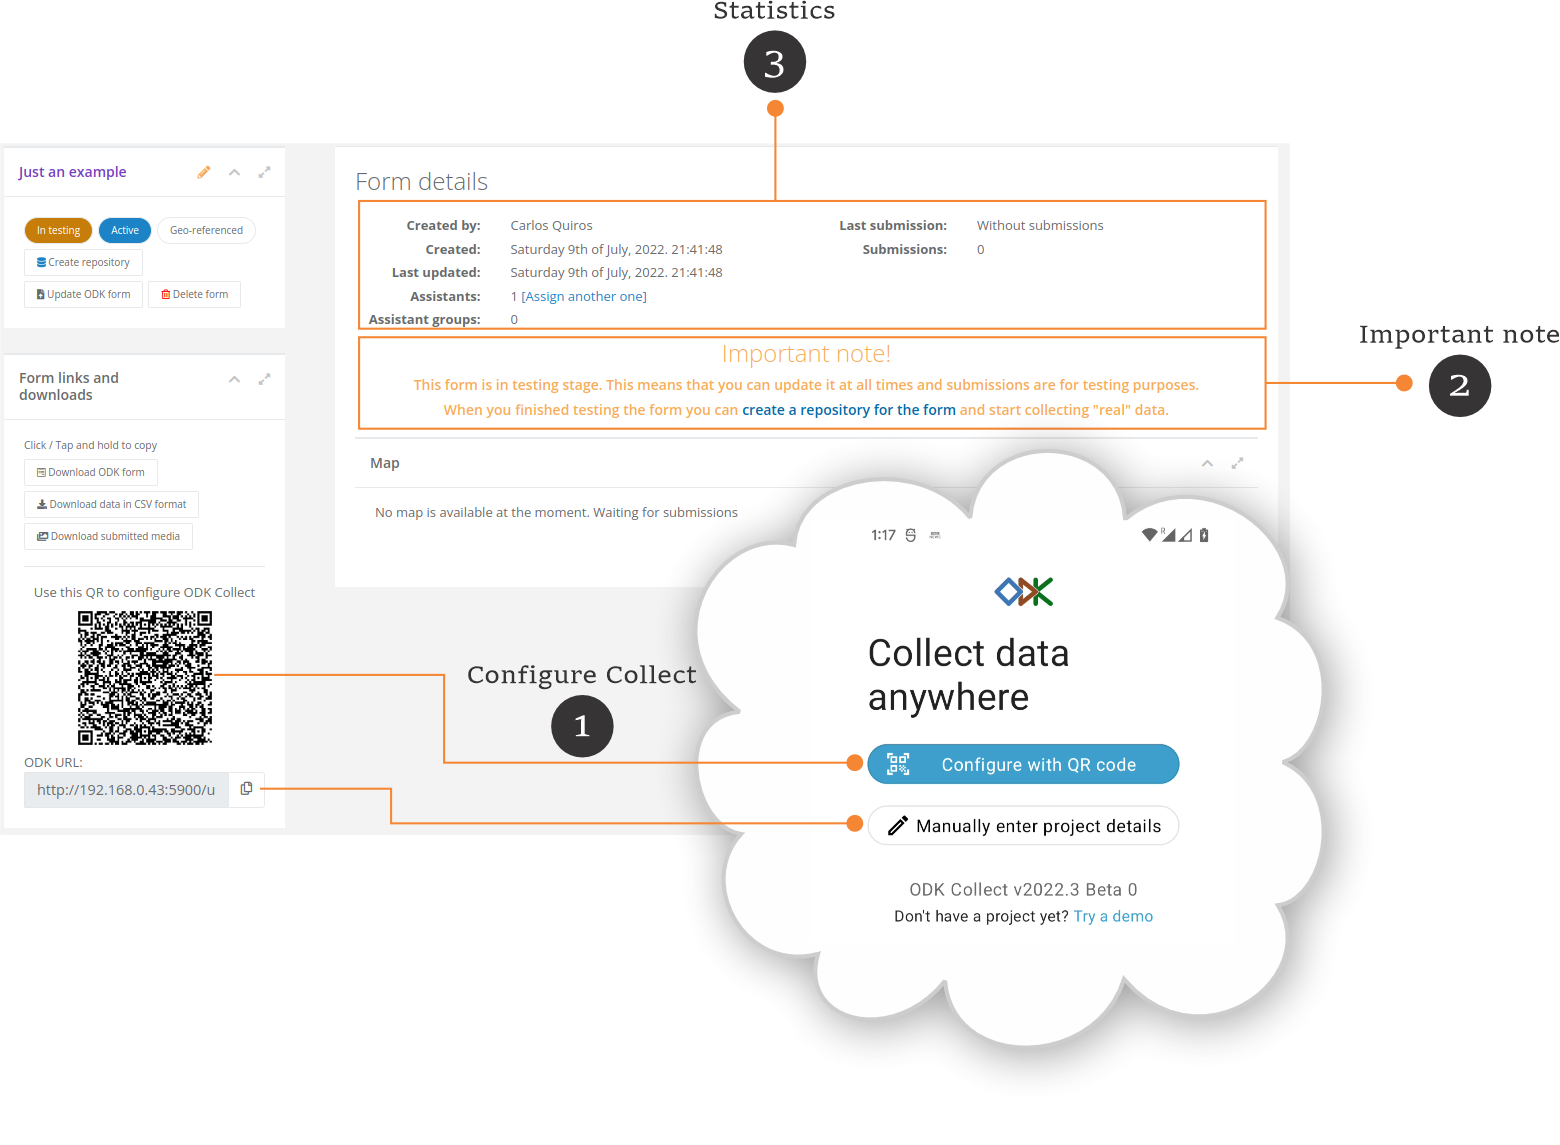
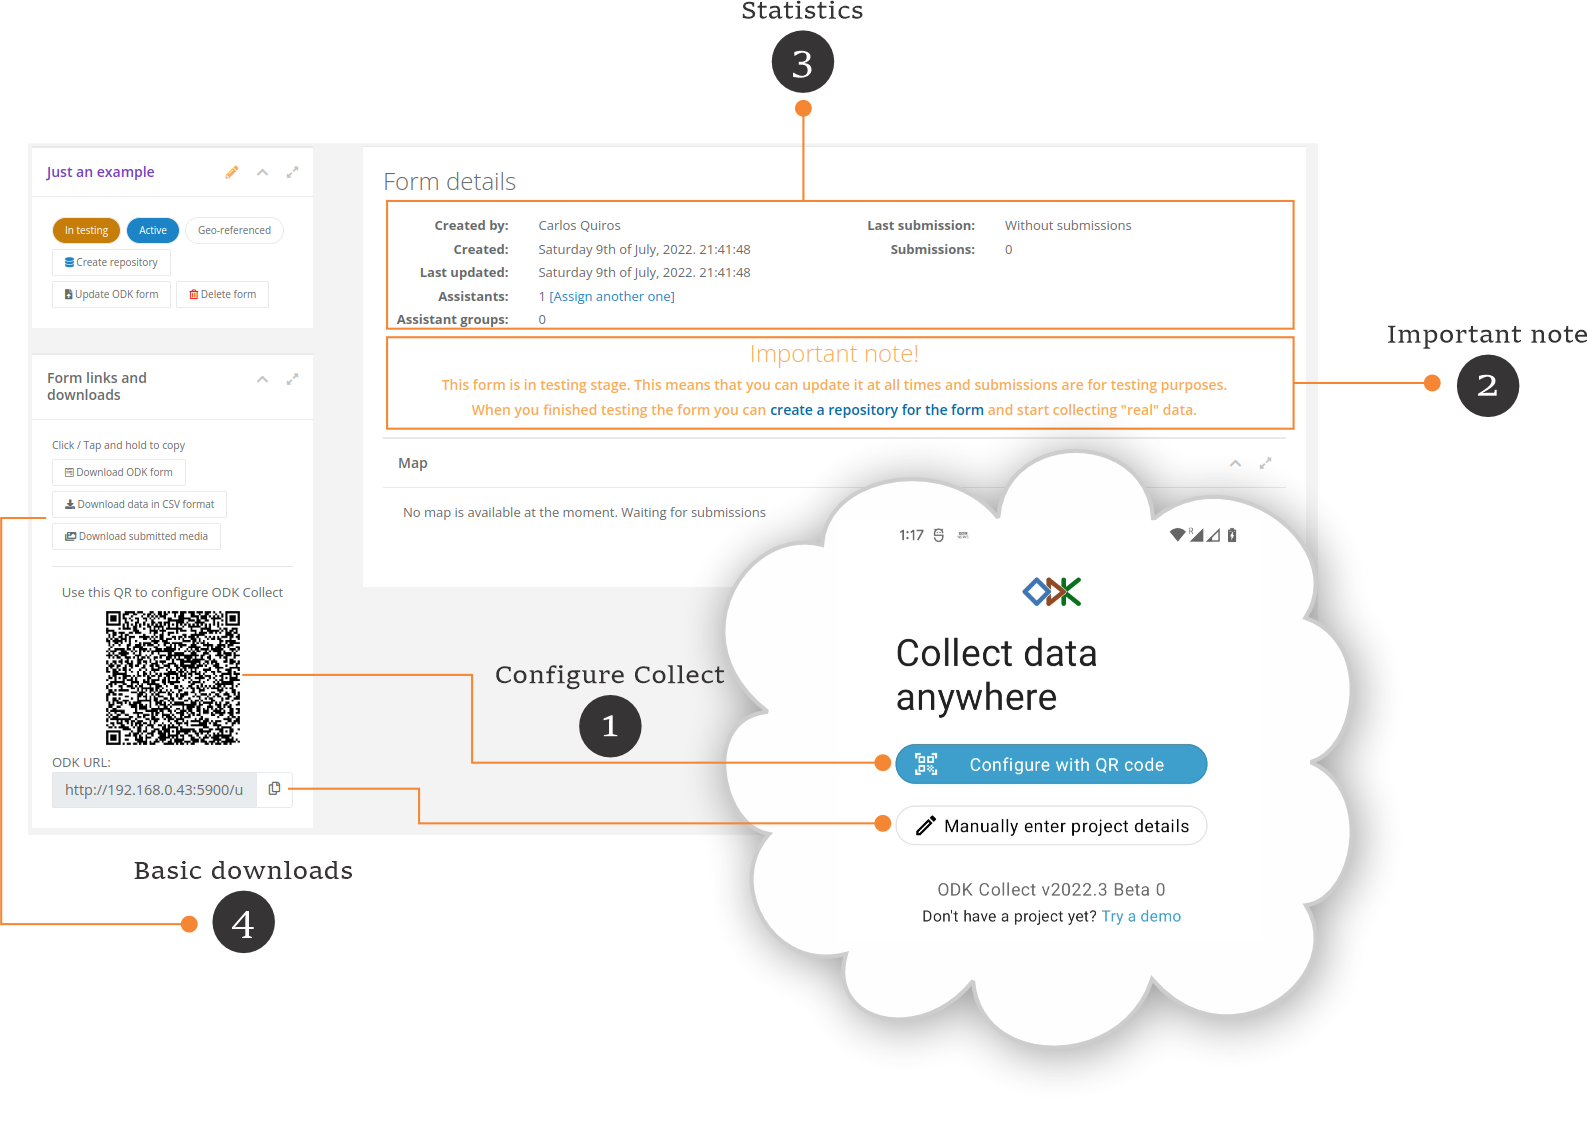
GitBook: [#17] More work in documentation. More sections

diff --git a/docs/guides/creating-your-first-task/advanced-permissions.md b/docs/guides/creating-your-first-task/advanced-permissions.md
@@ -1,5 +1,41 @@
-# Advanced permissions
+# Create a repository for your form
 
 {% hint style="info" %}
-**Good to know:** your product docs aren't just a reference of all your features! use them to encourage folks to perform certain actions and discover the value in your product.
+**FormShare stores submission data in a repository**. Details of this are covered in the section "[How does FormShare stores my data?](../../fundamentals/repositories/how-does-formshare-stores-my-data.md)".
 {% endhint %}
+
+For each ODK form that you upload into FormShare, the system creates a database to hold its submissions. This database is called a “repository”. At first, forms are uploaded in a “testing” stage (without a repository) but then you can create a repository for them to store “real” data. The reason for a testing stage is that it is easier to replace a form without a repository because FormShare does not need to alter the underlying database, however it is possible to [merge new versions of a form into a common repository](../../fundamentals/repositories/merging-subversions-of-a-form.md).
+
+<mark style="color:red;">**After you tested your form**</mark> you can generate a repository for it.
+
+![](../../.gitbook/assets/form\_test\_stage\_03\_captions.png)
+
+1. To create a repository for your form click either the button "Create repository" or the link "create a repository for the form". The repository creator will appear.
+
+![](../../.gitbook/assets/create\_repository\_captions.png)
+
+1. If you have testing data you can automatically import it into the repository (default) however, you can discard/delete all testing data.
+2. To create the repository click on the "Create repository" button.
+
+{% hint style="info" %}
+Note: If your form has multiple languages the repository creator will ask for more details. This is covered in the section "[Forms with multiple languages](../../fundamentals/repositories/forms-with-multiple-languages.md)".
+{% endhint %}
+
+FormShare will start generating your repository
+
+![](../../.gitbook/assets/generating\_repository.png)
+
+Afterward, the "Form details" page will appear with more options and utilities.
+
+![](../../.gitbook/assets/form\_details\_with\_repo\_captions.png)
+
+1. **With repository**: The form now appears with a repository.
+2. **In database**: Submissions are now stored in a database. You can start cleaning the data using the [Web Interface ](../../data-management/for-designers/figma-integration/the-web-interface.md)or through [API](../../data-management/for-designers/figma-integration/api-data-cleaning.md).
+3. **With error**:  Submissions that don't enter the database go to the [error log](../../data-management/for-designers/submissions-with-errors.md).
+4. **Log entries**: The process of cleaning submissions with errors generate traceability records in the [error log](../../data-management/for-designers/submissions-with-errors.md). You can review them at any time.
+5. **Merge new version**: It is normal to have new versions of a form even after substantial testing. A new version of a form will store the submissions in the same repository of its previous version. **This means that you WILL NOT have two different sets of data that then you would need to join**. This is covered in more detail in the section "[Merging subversions of a form](../../fundamentals/repositories/merging-subversions-of-a-form.md)".
+6. **Anonymize fields**: You can mark fields as sensitive across all tables. Fields marked as sensitive will not appear in [public products](../../data-management/data-products/private-vs-public-products.md).
+7. **Manage submissions**: This feature allows you to delete submissions or move a submission from the database into the log entries. This is covered in more detail in the section "[Working with submissions](../../data-management/for-designers/working-with-submissions.md)".
+8. **Import external data**: FormShare allows you to import data from FormShare 1.0 (JSON), ODK Central (XML), and third-party platforms in JSON format. This is covered in more detail in the section "[Import external data](../../fundamentals/submissions/import-external-data.md)"
+9. **The audit log**: FormShare logs any change in the data regardless of the method used (e.g., Web interface, API, etc). This is covered in more detail in the section "[The audit log](../../data-management/for-designers/figma-integration/the-audit-log.md)".
+10. **Export data**: Now that the form has a repository, it is possible to export the data in different formats like Excel, and JSON. This is covered in more detail in the section "[Data products](../../data-management/data-products/)".

diff --git a/docs/SUMMARY.md b/docs/SUMMARY.md
@@ -9,7 +9,7 @@
 * [Uploading your first ODK Form](guides/creating-your-first-task/README.md)
   * [Create and assign assistants](guides/creating-your-first-task/create-and-assign-assistants.md)
   * [Test your form](guides/creating-your-first-task/test-your-form.md)
-  * [Create a form repository](guides/creating-your-first-task/advanced-permissions.md)
+  * [Create a repository for your form](guides/creating-your-first-task/advanced-permissions.md)
 
 ## Fundamentals
 
@@ -21,14 +21,19 @@
 * [Assistants](fundamentals/tasks.md)
 * [Repositories](fundamentals/repositories/README.md)
   * [How does FormShare stores my data?](fundamentals/repositories/how-does-formshare-stores-my-data.md)
+  * [Forms with multiple languages](fundamentals/repositories/forms-with-multiple-languages.md)
   * [Merging subversions of a form](fundamentals/repositories/merging-subversions-of-a-form.md)
-* [Submissions](fundamentals/submissions.md)
+* [Submissions](fundamentals/submissions/README.md)
+  * [Import external data](fundamentals/submissions/import-external-data.md)
 * [Partners](fundamentals/partners.md)
 
 ## Data management
 
 * [Data curation](use-cases/for-designers/README.md)
-  * [Cleaning data in a repository](use-cases/for-designers/figma-integration.md)
+  * [Cleaning data in a repository](data-management/for-designers/figma-integration/README.md)
+    * [The web interface](data-management/for-designers/figma-integration/the-web-interface.md)
+    * [API Data cleaning](data-management/for-designers/figma-integration/api-data-cleaning.md)
+    * [The audit log](data-management/for-designers/figma-integration/the-audit-log.md)
   * [Submissions with errors](data-management/for-designers/submissions-with-errors.md)
   * [Working with submissions](data-management/for-designers/working-with-submissions.md)
 * [Longitudinal data collection](use-cases/for-engineers/README.md)
@@ -39,6 +44,7 @@
 * [The data dictionary](use-cases/for-support/README.md)
   * [Marking fields as sensitive](use-cases/for-support/intercom-integration.md)
 * [Data products](data-management/data-products/README.md)
+  * [Private vs public products](data-management/data-products/private-vs-public-products.md)
   * [Flat CSV (One CSV file)](data-management/data-products/flat-csv-one-csv-file.md)
 
 ## Extras

diff --git a/docs/guides/creating-your-first-task/test-your-form.md b/docs/guides/creating-your-first-task/test-your-form.md
@@ -23,10 +23,12 @@ Though FormShare checks for certain errors in your form it does not check:
 {% hint style="warning" %}
 **Remember**: <mark style="color:red;">**Submissions received to a form in the testing stage are considered test data**</mark>. This means that any <mark style="color:red;">**submissions will be discarded**</mark> every time that you upload a new version of the form.
 
-This behavior **is not the same** when your form has a repository. The section "[Working with submissions](../../data-management/for-designers/working-with-submissions.md)" discusses how to perform updates to a form with a repository.
+This behavior **is not the same** when your form has a repository. The section "[Merging subversions of a form](../../fundamentals/repositories/merging-subversions-of-a-form.md)" discusses how to perform updates to a form with a repository.
 {% endhint %}
 
-3\. Statistics: This section show statistics about your testing data. This information will change every time you receive new submissions. When you have submissions with GPS data your can explore each submission
+3\. Statistics: This section show statistics about your testing data. This information will change every time you receive new submissions. When you have submissions with GPS data you can explore each submission
+
+4\. Basic downloads: During the "testing stage" you can download the testing data in CSV format (Flat CSV / One file) and download any media submitted with the submissions. These are basic downloads. **More download formats will be available after you create a repository.**
 
 ![](../../.gitbook/assets/submission\_details\_captions.png)
 

diff --git a/docs/guides/creating-your-first-task/create-and-assign-assistants.md b/docs/guides/creating-your-first-task/create-and-assign-assistants.md
@@ -43,7 +43,7 @@ Remember: To control duplicate submissions, you need to select a variable from y
 
 * Download ODK form: This will download the ODK form in Excel format
 * Download data in CSV format: This is a "[Flat CSV file](../../data-management/data-products/flat-csv-one-csv-file.md)". FormShare does not [resolve option labels or multi-select fields](../../fundamentals/repositories/how-does-formshare-stores-my-data.md) for data in the testing stage.
-* Download submitted media: This is a Zip file containing any media submitted to the form. Media files will be separated by [submission ID](../../fundamentals/submissions.md).
+* Download submitted media: This is a Zip file containing any media submitted to the form. Media files will be separated by [submission ID](../../fundamentals/submissions/).
 
 7\. Form files: ODK forms can use supporting files when collecting data. These files can be data or media files. If your form uses data files, e.g., CSV files, FormShare will alert you if such files are missing. FormShare will finish checking your form once you attach all necessary data files.
 

diff --git a/docs/fundamentals/repositories/forms-with-multiple-languages.md b/docs/fundamentals/repositories/forms-with-multiple-languages.md
@@ -1,0 +1,2 @@
+# Forms with multiple languages
+

diff --git a/docs/data-management/data-products/private-vs-public-products.md b/docs/data-management/data-products/private-vs-public-products.md
@@ -1,0 +1,2 @@
+# Private vs public products
+

diff --git a/docs/fundamentals/submissions/import-external-data.md b/docs/fundamentals/submissions/import-external-data.md
@@ -1,0 +1,2 @@
+# Import external data
+

diff --git a/docs/data-management/for-designers/figma-integration/api-data-cleaning.md b/docs/data-management/for-designers/figma-integration/api-data-cleaning.md
@@ -1,0 +1,2 @@
+# API Data cleaning
+

diff --git a/docs/data-management/for-designers/figma-integration/the-web-interface.md b/docs/data-management/for-designers/figma-integration/the-web-interface.md
@@ -1,0 +1,2 @@
+# The web interface
+

diff --git a/docs/data-management/for-designers/figma-integration/the-audit-log.md b/docs/data-management/for-designers/figma-integration/the-audit-log.md
@@ -1,0 +1,2 @@
+# The audit log
+
